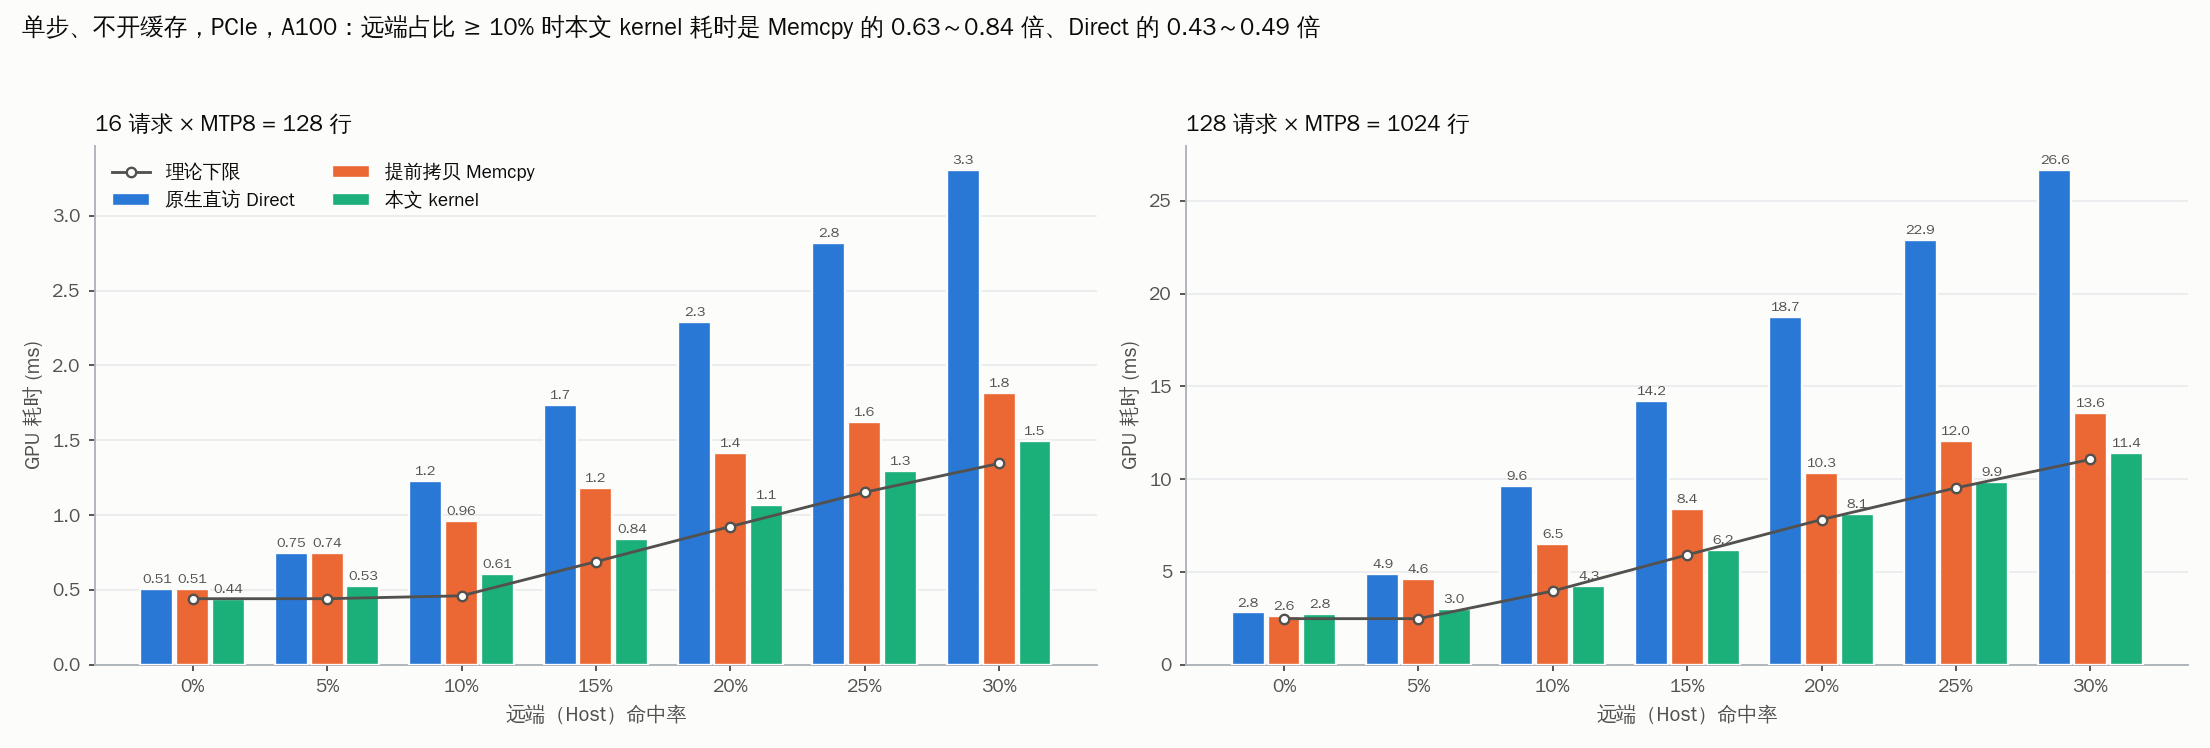
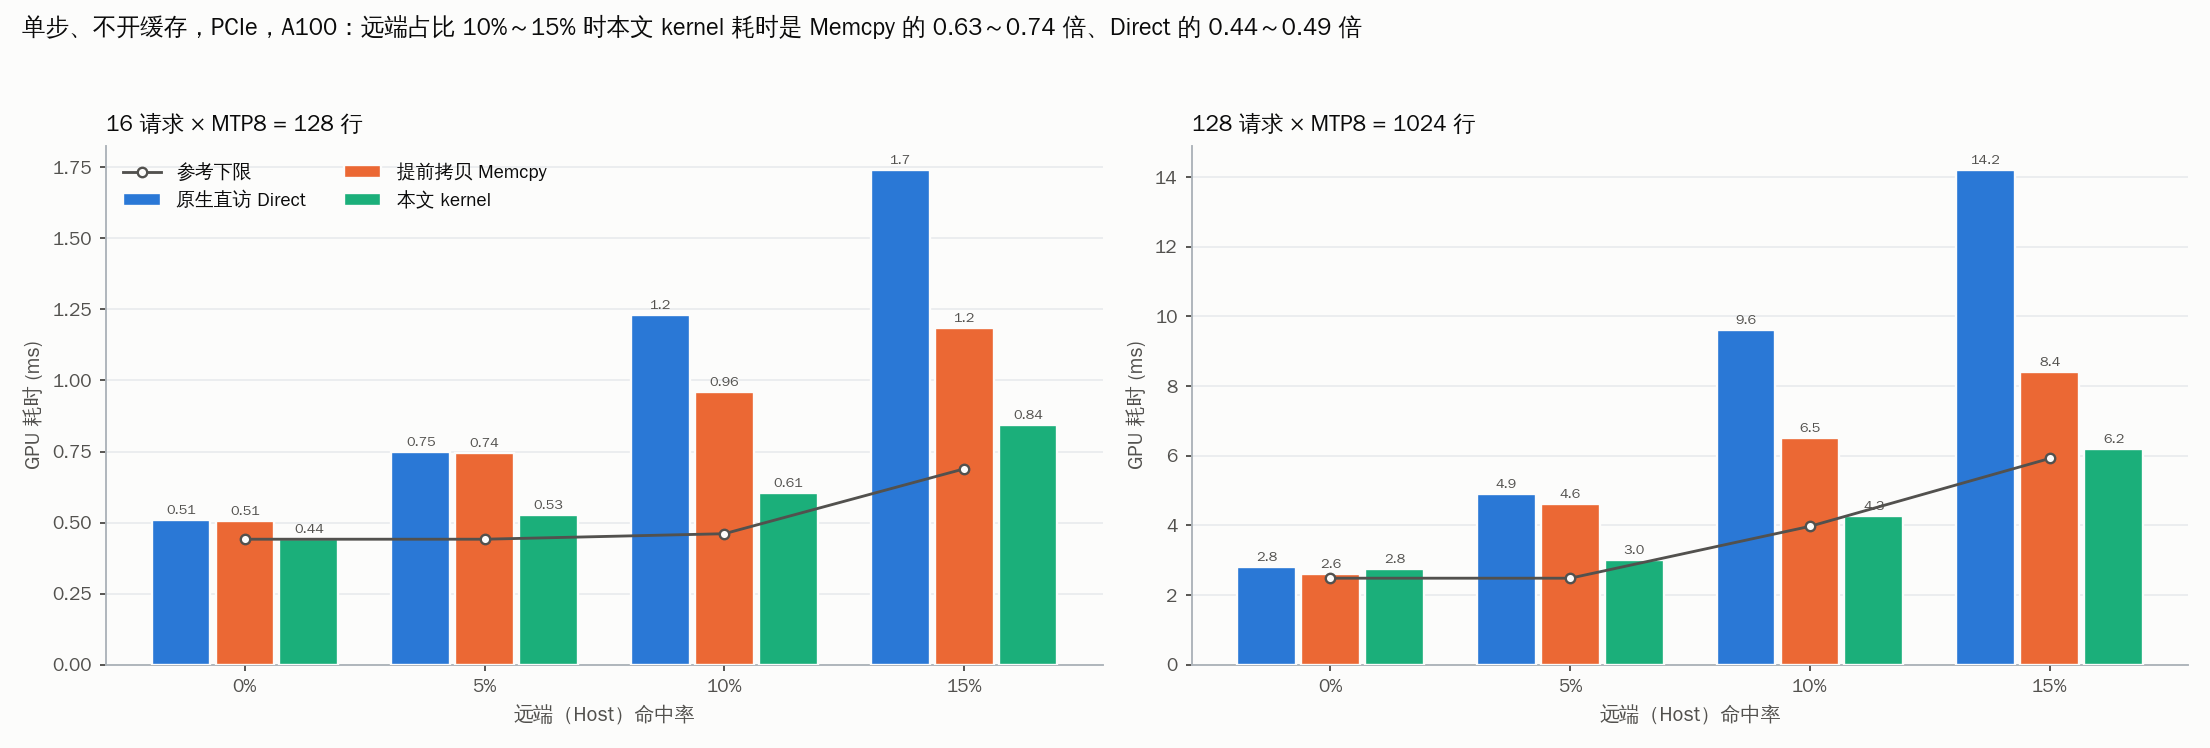
docs(mla): refresh host LRU report; emu: arrival-delay injection
far_link_emu.cuh gains a delay-injection path (only under
-DFLASHINFER_FAR_EMU) used by the simulator sweeps; emu_gather.cu,
the report and its figures follow the same runs.

diff --git a/temp/report_lru/plot.py b/temp/report_lru/plot.py
@@ -98,34 +98,46 @@ def rounds_rows(name, ours, min_requests=0):
     return rows
 
 
-def fig_rounds():
+def fig_rounds(capacity=4096):
+    suffix = "" if capacity == 4096 else f"_c{capacity}"
     panels = [
-        ("rounds_host_mtp8.json", "ours_stage", (4, 16, 32, 64, 128), "PCIe，MTP8"),
-        ("rounds_peer_mtp8.json", "ours_inplace", (8, 16, 32, 64, 128), "NVLink，MTP8"),
-        ("rounds_host_mtp1.json", "ours_stage", (32, 64, 128, 256, 512), "PCIe，MTP1"),
-        ("rounds_peer_mtp1.json", "ours_inplace", (64, 128, 256), "NVLink，MTP1"),
+        ("host", "ours_stage", "PCIe，MTP8"),
+        ("peer", "ours_inplace", "NVLink，MTP8"),
     ]
-    fig, axes = plt.subplots(2, 2, figsize=(12.5, 7.6))
-    for axis, (name, ours, pick, title) in zip(axes.flat, panels):
-        rows = [r for r in rounds_rows(name, ours) if r["req"] in pick]
+    fig, axes = plt.subplots(1, 2, figsize=(12.5, 4.2))
+    for axis, (tier, ours, title) in zip(axes, panels):
+        d = load(f"rounds_{tier}_mtp8{suffix}.json")
+        base = {r["requests"]: r for r in load(f"rounds_{tier}_mtp8.json")["results"]}
+        bw = max(d["bandwidth"]["sm_gather_random_GBps"], d["bandwidth"]["dma_contiguous_GBps"])
+        rows = []
+        for r in d["results"]:
+            if r["requests"] not in (1, 4, 16, 64, 128):
+                continue
+            tail = range(r["steps"] // 2, r["steps"])
+            miss = sum(r["cached_misses"][ours][t] for t in tail) / len(tail)
+            floor = max(steady(base[r["requests"]], "floor_fa2"), miss * ROW / bw / 1e3)
+            rows.append(dict(req=r["requests"], rows=r["query_rows"], floor=floor,
+                             ours=steady(r, ours), memcpy=steady(r, "memcpy_lru"),
+                             direct=steady(r, "direct_lru")))
         grouped(axis, [f"{r['req']} 请求\n{r['rows']} 行" for r in rows], [
             ("Direct + LRU", BLUE, [r["direct"] / 1e3 for r in rows]),
             ("Memcpy + LRU", ORANGE, [r["memcpy"] / 1e3 for r in rows]),
             ("本文 kernel + LRU", GREEN, [r["ours"] / 1e3 for r in rows]),
         ], lambda v: f"{v:.1f}" if v >= 1 else f"{v:.2f}", fontsize=5.8)
         for i, r in enumerate(rows):
-            axis.plot([i - 0.42, i + 0.42], [r["floor"] / 1e3] * 2, color=INK, linestyle=(0, (4, 3)),
-                      linewidth=1.1, zorder=5)
+            axis.plot([i - 0.42, i + 0.42], [r["floor"] / 1e3] * 2,
+                      color=INK, linestyle=(0, (4, 3)), linewidth=1.1, zorder=5)
         axis.set_title(title, loc="left")
         dress(axis, "每步 GPU 耗时 (ms)")
         top = max(max(r["direct"], r["memcpy"], r["ours"]) for r in rows) / 1e3
-        axis.set_ylim(0, top * 1.12)
-    axes[0][0].plot([], [], color=INK, linestyle=(0, (4, 3)), label="参考下限")
-    axes[0][0].legend(loc="upper left", frameon=False, ncol=2)
-    fig.suptitle("跨 decode 稳态（除最新 token 外 KV 全在远端，每请求 4096 槽 LRU），A100：每步耗时，虚线为该 batch 的参考下限",
+        axis.set_ylim(0, top * 1.20)
+    axes[0].plot([], [], color=INK, linestyle=(0, (4, 3)), label="参考下限")
+    axes[0].legend(loc="upper left", frameon=False, ncol=2, fontsize=7)
+    fig.suptitle(f"A100，MTP8，跨 decode 稳态：每请求 {capacity} 槽 LRU，虚线为参考下限",
                  x=0.01, ha="left", fontsize=10)
-    fig.tight_layout(rect=(0, 0, 1, 0.96))
-    fig.savefig(OUT / "rounds_vs_floor.png", dpi=170)
+    fig.tight_layout(rect=(0, 0, 1, 0.94))
+    filename = "rounds_vs_floor.png" if capacity == 4096 else f"rounds_vs_floor_c{capacity}.png"
+    fig.savefig(OUT / filename, dpi=170)
     plt.close(fig)
 
 
@@ -135,7 +147,7 @@ def fig_single_step():
     fig, axes = plt.subplots(1, 2, figsize=(13, 4.4))
     for axis, req in zip(axes, (16, 128)):
         r = next(x for x in d["results"] if x["requests"] == req)
-        cases = r["cases"]
+        cases = [c for c in r["cases"] if c["far_fraction"] <= 0.15]
         labels = [f"{c['far_fraction']:.0%}" for c in cases]
         grouped(axis, labels, [
             ("原生直访 Direct", BLUE, [c["direct"]["median_us"] / 1e3 for c in cases]),
@@ -153,10 +165,10 @@ def fig_single_step():
     rm, rd = [], []
     for req in (16, 128):
         for c in next(x for x in d["results"] if x["requests"] == req)["cases"]:
-            if c["far_fraction"] >= 0.1:
+            if 0.1 <= c["far_fraction"] <= 0.15:
                 rm.append(c["batch"]["median_us"] / c["copy"]["median_us"])
                 rd.append(c["batch"]["median_us"] / c["direct"]["median_us"])
-    fig.suptitle(f"单步、不开缓存，PCIe，A100：远端占比 ≥ 10% 时本文 kernel 耗时是 Memcpy 的 {min(rm):.2f}～{max(rm):.2f} 倍、"
+    fig.suptitle(f"单步、不开缓存，PCIe，A100：远端占比 10%～15% 时本文 kernel 耗时是 Memcpy 的 {min(rm):.2f}～{max(rm):.2f} 倍、"
                  f"Direct 的 {min(rd):.2f}～{max(rd):.2f} 倍", x=0.01, ha="left", fontsize=10)
     fig.tight_layout(rect=(0, 0, 1, 0.94))
     fig.savefig(OUT / "single_step_pcie_mtp8.png", dpi=170)
@@ -164,16 +176,15 @@ def fig_single_step():
 
 
 def fig_single_step_nvlink():
-    d = load("sweep_peer_mtp8_inplace.json")
+    d = load("sweep_peer_mtp8.json")
     bw = max(d["bandwidth"]["sm_gather_random_GBps"], d["bandwidth"]["dma_contiguous_GBps"])
     fig, axes = plt.subplots(1, 2, figsize=(13, 4.4))
-    for axis, req in zip(axes, (16, 128)):
+    for axis, req in zip(axes, (64, 128)):
         r = next(x for x in d["results"] if x["requests"] == req)
         cases = r["cases"]
         grouped(axis, [f"{c['far_fraction']:.0%}" for c in cases], [
-            ("原生直访 Direct", BLUE, [c["direct"]["median_us"] / 1e3 for c in cases]),
             ("提前拷贝 Memcpy", ORANGE, [c["copy"]["median_us"] / 1e3 for c in cases]),
-            ("本文 kernel（原地读，NVLink 配置）", GREEN, [c["batch_inplace"]["median_us"] / 1e3 for c in cases]),
+            ("优化后", GREEN, [c["direct"]["median_us"] / 1e3 for c in cases]),
         ], lambda v: f"{v:.2f}", fontsize=6.0)
         floors = [max(compute_floor(r), sorted(c["far_unique_bytes"])[len(c["far_unique_bytes"]) // 2] / bw / 1e3) / 1e3
                   for c in cases]
@@ -182,13 +193,13 @@ def fig_single_step_nvlink():
         axis.set_xlabel("远端（peer HBM）选中 KV 占比")
         dress(axis, "GPU 耗时 (ms)")
         axis.set_title(f"{req} 请求 × MTP8 = {r['query_rows']} 行", loc="left")
-        top = max(c[k]["median_us"] / 1e3 for c in cases for k in ("direct", "copy", "batch_inplace"))
+        top = max(c[k]["median_us"] / 1e3 for c in cases for k in ("direct", "copy"))
         axis.set_ylim(0, top * 1.30)
     axes[0].legend(loc="upper left", frameon=False, ncol=2, fontsize=7)
     fig.suptitle("单步、不开缓存，NVLink，A100：本文原地读不开缓存时即原生 kernel，与 Direct 相同，远端占比 ≥ 10% 时快于 Memcpy",
                  x=0.01, ha="left", fontsize=10)
     fig.tight_layout(rect=(0, 0, 1, 0.94))
-    fig.savefig(OUT / "single_step_nvlink_mtp8.png", dpi=170)
+    fig.savefig(OUT / "single_step_nvlink_mtp8_inplace.png", dpi=170)
     plt.close(fig)
 
 
@@ -245,32 +256,40 @@ def fig_hisparse():
 
 
 def fig_capacity():
-    fig, axes = plt.subplots(1, 2, figsize=(13, 4.0))
-    for axis, (tier, ours, title) in zip(axes, [("host", "ours_stage", "PCIe"), ("peer", "ours_inplace", "NVLink")]):
-        data = {}
-        for cap, name in ((2048, f"rounds_{tier}_mtp8_c2048.json"), (4096, f"rounds_{tier}_mtp8.json"),
-                          (8192, f"rounds_{tier}_mtp8_c8192.json")):
-            d = load(name)
-            data[cap] = {r["requests"]: r for r in d["results"]}
-        reqs = [16, 64, 128]
-        series = []
-        for cap, color in ((2048, "#b9e6d3"), (4096, "#5cc89f"), (8192, GREEN)):
-            series.append((f"本文 kernel，{cap} 槽", color, [steady(data[cap][q], ours) / 1e3 for q in reqs]))
-        series.append(("朴素较快者，8192 槽", ORANGE,
-                       [min(steady(data[8192][q], "memcpy_lru"), steady(data[8192][q], "direct_lru")) / 1e3 for q in reqs]))
-        grouped(axis, [f"{q} 请求" for q in reqs], series, lambda v: f"{v:.1f}", fontsize=6.2)
-        dress(axis, "每步 GPU 耗时 (ms)")
-        axis.set_title(f"{title}，MTP8", loc="left")
-    axes[0].legend(loc="upper left", frameon=False, ncol=2)
-    fig.suptitle("LRU 容量（每请求槽数）：容量越大未命中越少；8192 槽时本文 kernel 仍快于朴素方法", x=0.01, ha="left", fontsize=10)
-    fig.tight_layout(rect=(0, 0, 1, 0.93))
-    fig.savefig(OUT / "lru_capacity.png", dpi=170)
+    fig, axes = plt.subplots(2, 3, figsize=(13, 7.0))
+    for row, (tier, ours, title) in enumerate([
+            ("host", "ours_stage", "PCIe"), ("peer", "ours_inplace", "NVLink")]):
+        for col, cap in enumerate((2048, 4096, 8192)):
+            suffix = "" if cap == 4096 else f"_c{cap}"
+            data = load(f"rounds_{tier}_mtp8{suffix}.json")
+            rows = [dict(req=r["requests"], ours=steady(r, ours),
+                         memcpy=steady(r, "memcpy_lru"), direct=steady(r, "direct_lru"))
+                    for r in data["results"] if r["requests"] in (1, 4, 16, 64, 128)]
+            axis = axes[row, col]
+            grouped(axis, [str(r["req"]) for r in rows], [
+                ("优化后 + LRU", GREEN, [r["ours"] / 1e3 for r in rows]),
+                ("同容量较快基线", ORANGE,
+                 [min(r["memcpy"], r["direct"]) / 1e3 for r in rows]),
+            ], lambda v: f"{v:.2f}", fontsize=6.0)
+            axis.set_yscale("log")
+            axis.yaxis.set_major_formatter(matplotlib.ticker.FuncFormatter(lambda v, _: f"{v:g}"))
+            # Match scales across capacities within each link.
+            axis.set_ylim((0.07, 40) if tier == "host" else (0.04, 10))
+            dress(axis, "每步 GPU 耗时 (ms，对数)")
+            axis.set_xlabel("请求数")
+            axis.set_title(f"{title}，每请求 {cap} 槽", loc="left")
+    axes[0, 0].legend(loc="upper left", frameon=False, fontsize=7)
+    fig.suptitle("A100，MTP8：LRU 容量扫描（跨步稳态，各基线使用相同缓存容量）",
+                 x=0.01, ha="left", fontsize=10)
+    fig.tight_layout(rect=(0, 0, 1, 0.95))
+    fig.savefig(OUT / "lru_capacity_comparison.png", dpi=170)
     plt.close(fig)
 
 
 if __name__ == "__main__":
     style()
     fig_rounds()
+    fig_rounds(8192)
     fig_single_step()
     fig_single_step_nvlink()
     fig_lru_gain()
